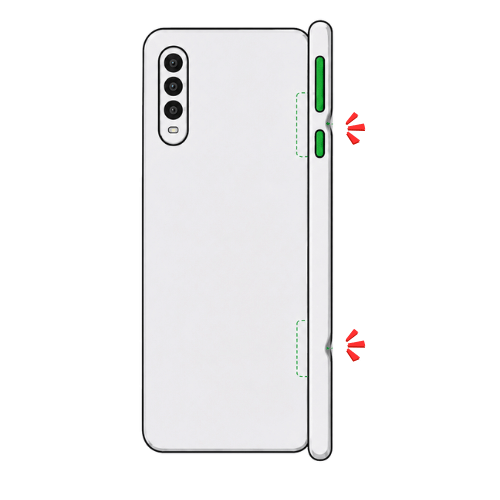
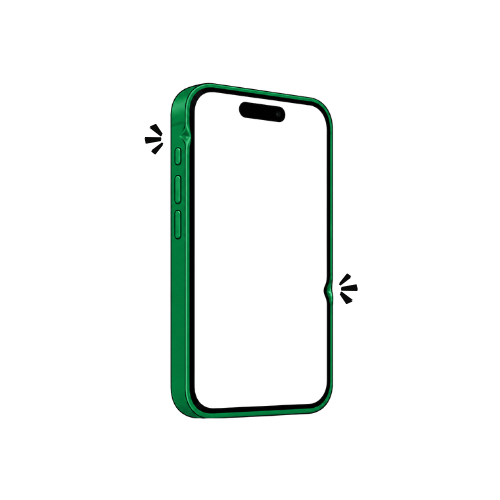
modified in watch brand file

Changed region(s): [[0.27, 0.03, 0.75, 0.93]]

diff --git a/watch_brand.html b/watch_brand.html
@@ -1,6 +1,8 @@
 <!DOCTYPE html>
 <html lang="en">
 
+<!-- comments -->
+
 <head>
   <meta charset="UTF-8">
   <meta name="viewport" content="width=device-width, initial-scale=1.0">